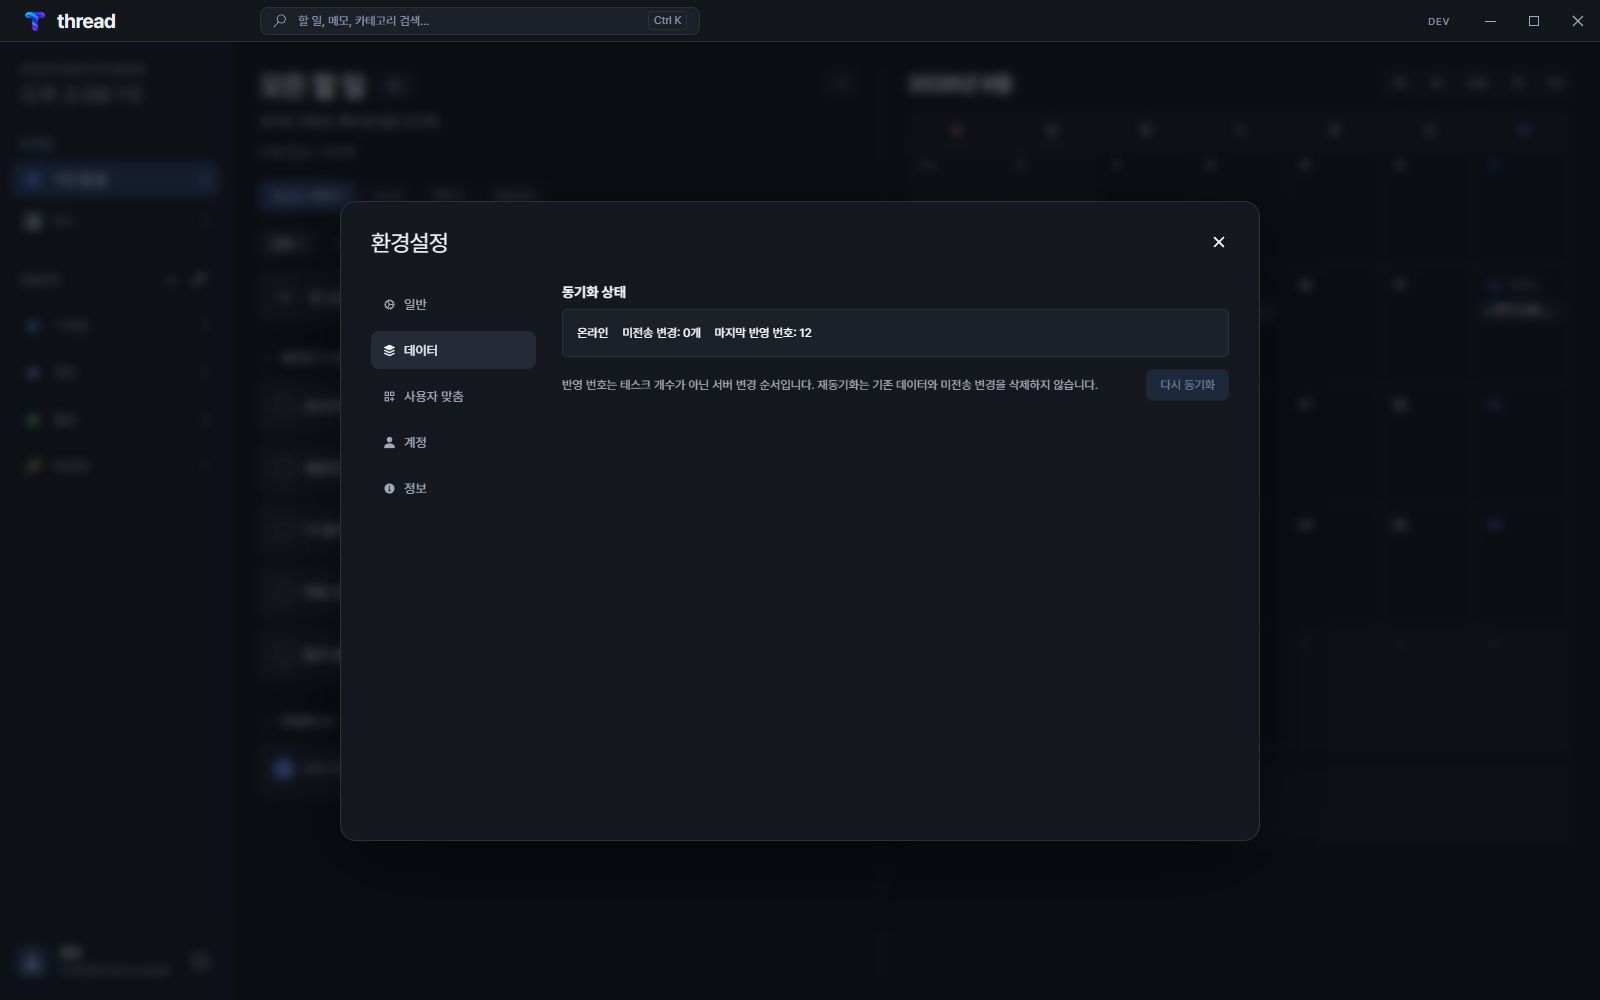
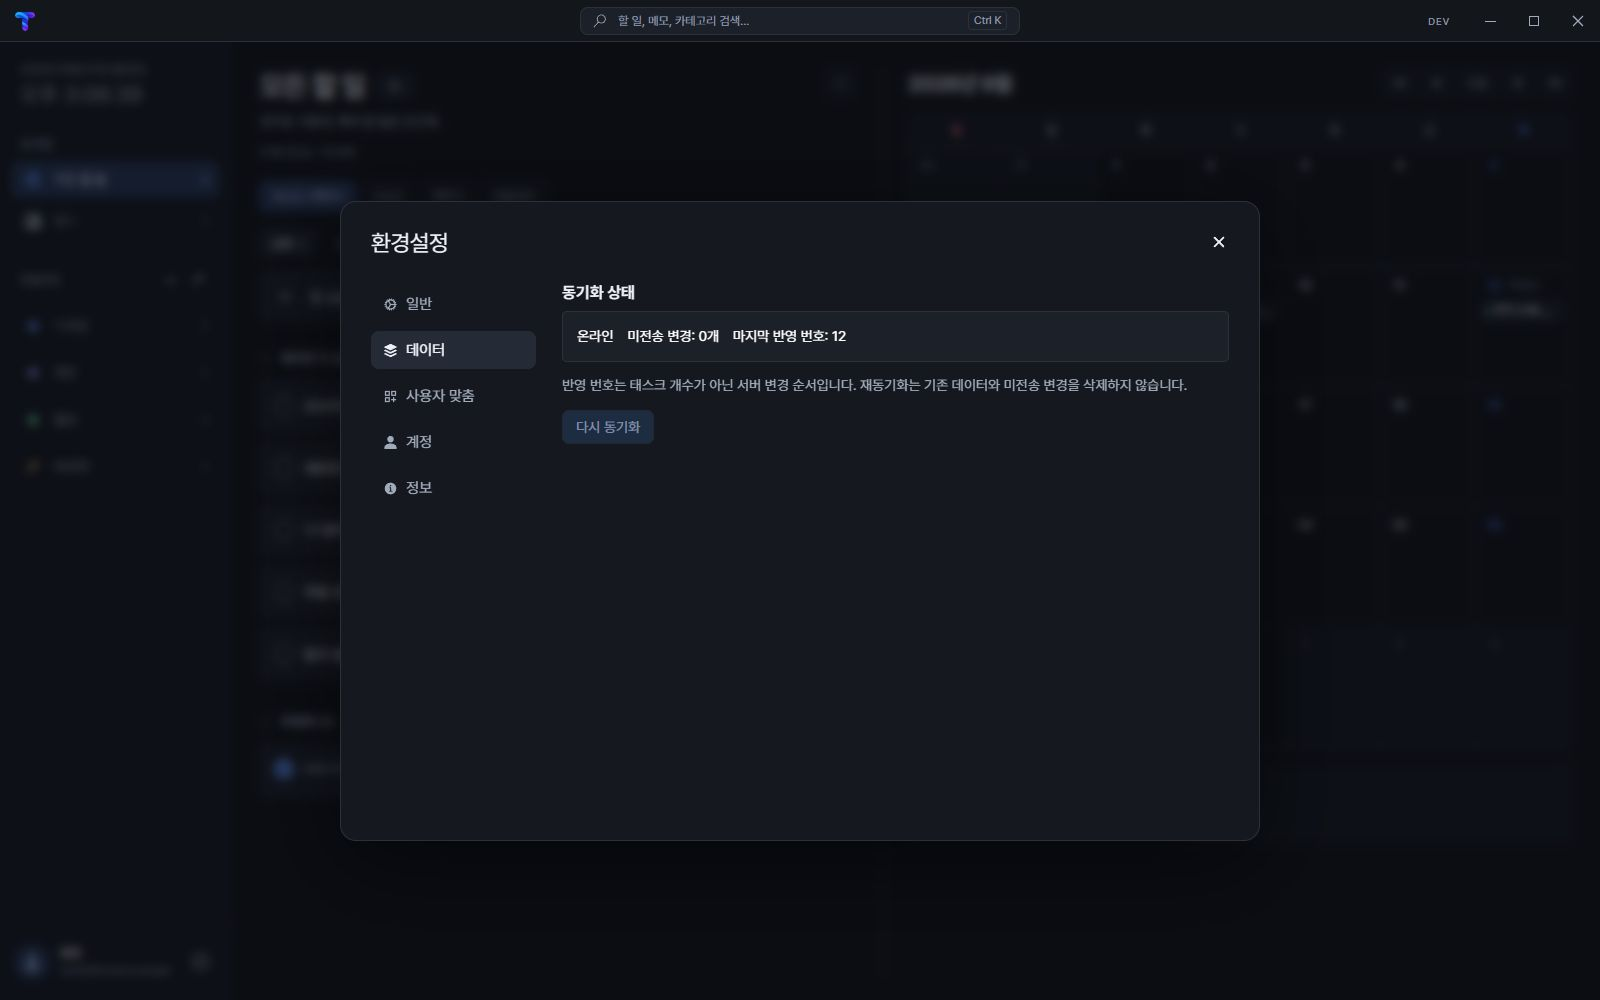
style(desktop): center titlebar search and enlarge settings text

diff --git a/apps/desktop/src/styles/surfaces.scss b/apps/desktop/src/styles/surfaces.scss
@@ -17,7 +17,7 @@
   color: var(--secondary);
 }
 .setting-info .info-item {
-  font-size: 13px;
+  font-size: 15px;
   color: var(--secondary);
   padding: 10px 0;
   border-bottom: 1px solid var(--border);
@@ -70,7 +70,7 @@
     margin-right: 26px;
   }
   .content .menu .menu-item {
-    font-size: 13px;
+    font-size: 15px;
     color: var(--secondary);
     min-height: 38px;
     padding: 9px 12px;
@@ -84,6 +84,7 @@
     background: var(--hover);
   }
   .content .menu-content {
+    font-size: 16px;
     min-width: 0;
     overflow-y: auto;
   }
@@ -91,6 +92,7 @@
     color: var(--secondary);
   }
   .content .menu-content > .settings .setting-item > .head > .label {
+    font-size: 16px;
     font-weight: 600;
     color: var(--text);
   }
@@ -101,6 +103,7 @@
     > .body
     .controller
     .description {
+    font-size: 14px;
     color: var(--secondary);
     line-height: 1.7;
   }
@@ -122,9 +125,10 @@
     padding: 9px 13px;
     background: var(--selected);
     color: #c5d7ff;
-    font-size: 12px;
+    font-size: 14px;
   }
   .sync-status .sync-summary {
+    font-size: 14px;
     background: var(--surface);
     border: 1px solid var(--border);
     padding: 14px;
@@ -133,7 +137,7 @@
   }
   @media (max-width: 850px) {
     .content .menu {
-      width: 125px;
+      width: 140px;
       margin-right: 16px;
     }
   }

diff --git a/apps/desktop/src/components/TopBar.scss b/apps/desktop/src/components/TopBar.scss
@@ -11,12 +11,12 @@
   z-index: 100;
   -webkit-app-region: drag;
   .brand {
-    width: $left-sidebar-width;
+    width: auto;
     flex-shrink: 0;
     display: flex;
     align-items: center;
     gap: 9px;
-    padding: 0 22px;
+    padding: 0 12px;
     box-sizing: border-box;
     font-size: 20px;
     font-weight: 650;
@@ -29,13 +29,15 @@
     object-fit: contain;
   }
   .workspace-search {
+    position: absolute;
+    left: 50%;
+    transform: translateX(-50%);
     display: flex;
     align-items: center;
     gap: 10px;
     width: min(440px, 40vw);
     min-width: 140px;
     height: 28px;
-    margin-left: 28px;
     padding: 0 12px;
     border: 1px solid var(--border);
     border-radius: 8px;
@@ -100,9 +102,6 @@
     color: white;
   }
   @media (max-width: 900px) {
-    .workspace-search {
-      margin-left: 16px;
-    }
     kbd,
     .build-label {
       display: none;

diff --git a/apps/desktop/src/components/TopBar.js b/apps/desktop/src/components/TopBar.js
@@ -40,8 +40,7 @@ const TopBar = ({ searchQuery = "", setSearchQuery }) => {
   return (
     <header className="component top-bar">
       <div className="brand" title={`Thread ${PackageJson.version}`}>
-        <img src={process.env.PUBLIC_URL + "/logo192.png"} alt="" />
-        <span>thread</span>
+        <img src={process.env.PUBLIC_URL + "/logo192.png"} alt="Thread" />
       </div>
       <div className="drag-section" />
       <div className="workspace-search">

diff --git a/apps/desktop/src/components/LeftSidebar.scss b/apps/desktop/src/components/LeftSidebar.scss
@@ -76,6 +76,11 @@
     background: var(--hover);
     color: var(--text);
   }
+  .visible.key svg,
+  .todo-menu:not(.default) .icon-wrapper svg {
+    width: 0.8em;
+    height: 0.8em;
+  }
   .todo-menus {
     display: flex;
     flex-direction: column;

diff --git a/docs/tasks.md b/docs/tasks.md
@@ -2,7 +2,7 @@
 
 | Index | Tag | Updated | Status | Completed | Deps | 항목 | 완료 조건 |
 | --- | --- | --- | --- | --- | --- | --- | --- |
-| 37 | desktop/design | 2026-09-07 14:59 | 🟡 WIP |  |  | Desktop UI/UX 전면 개선 | 참고 이미지 기반 charcoal/blue 토큰·상단 검색·사이드바·목록/캘린더 분할·빠른 추가·완료 필터·날짜 상세·설정/팝업을 구현했다. 기존 IPC mutation 계약과 보안 카테고리 필터를 유지했다. 추가 피드백: 상단 42px·시계 22px·메뉴 36px·시계 아래 여백 +10px, 목록/캘린더 12px 단일 단위 남은 시간(상세 유지), 좁은 캘린더 시간 숨김, 삭제 버튼 돌출에 의한 목록 가로 넘침을 수정했다. renderer 40개 테스트·production build(기존 lint 경고) 및 synthetic 실제 브라우저의 기능/치수/900·1280·1600px 내부 넘침 검증 통과. 스크린샷을 디자인 명세에 보존했다. 사용자 시각 검수 대기. |
+| 37 | desktop/design | 2026-09-07 15:07 | 🟡 WIP |  |  | Desktop UI/UX 전면 개선 | 참고 이미지 기반 charcoal/blue 토큰·상단 검색·사이드바·목록/캘린더 분할·빠른 추가·완료 필터·날짜 상세·설정/팝업을 구현했다. 기존 IPC mutation 계약과 보안 카테고리 필터를 유지했다. 추가 피드백: 상단 42px·시계 22px·메뉴 36px·시계 아래 여백 +10px, 목록/캘린더 12px 단일 단위 남은 시간(상세 유지), 좁은 캘린더 시간 숨김, 삭제 버튼 돌출에 의한 목록 가로 넘침을 수정했다. renderer 40개 테스트·production build(기존 lint 경고) 및 synthetic 실제 브라우저의 기능/치수/900·1280·1600px 내부 넘침 검증 통과. 스크린샷을 디자인 명세에 보존했다. 상단 글자 제거·로고 좌측 12px·검색창 창 중앙 정렬·키 아이콘 80%·설정 글자/아이콘 +2px 추가 반영 및 브라우저/production build 검증 완료. 사용자 시각 검수 대기. |
 | 36 | security | 2026-09-07 13:05 | 🟢 DONE | 2026-09-07 13:05 |  | Desktop production env 이력 제거 | ignore 예외를 제거하고 별도 복제본 전체 이력에서 해당 경로를 제거했다. master/refactor 양 원격 브랜치를 explicit lease·atomic 강제 푸시하고 로컬 브랜치를 정렬했다. 파일 존재·ignore 적용·추적 해제를 확인했다. 로컬 실제 env·기존 stash/다른 브랜치는 보존했으며 GitHub 캐시/타인의 clone까지 삭제한 것은 아니다. |
 | 35 | desktop | 2026-09-07 02:21 | 🟢 DONE | 2026-09-07 02:21 | #34 | v2 설정 동기화 상태 및 1.1.0 빌드 | 설정을 연결 상태·미전송 변경·마지막 반영 번호로 교체하고 현재 상태 조회/실시간 갱신/데이터 보존 재시도 IPC를 연결했다. 계정 필터·초기 응답 경쟁·개별 구독 해제를 검증했다. renderer 29개 및 SQLite/mock service 테스트 1개 통과, production build와 Windows ia32 NSIS 1.1.0 패키징 완료. asar 버전·진입점·최종 renderer·sync/IPC 코드 일치를 확인했다. 기존 lint 경고는 남아 있으며 실제 설치·운영 서버 호출·업로드는 하지 않았다. |
 | 34 | desktop | 2026-09-07 02:10 | 🟢 DONE | 2026-09-07 02:10 |  | 상단 평상시 sync 상태 제거 및 설정 0/0 진단 | 평상시 debug 상태 줄을 제거하고 복구/오류 경고를 보존했다. UI 테스트 6개와 Root/경고 컴포넌트 transpilation, diff 검사를 통과했다. 설정 0/0은 legacy block IPC만 구독하고 v2 status를 구독하지 않는 표시 문제로 확인했다. 설정 변경은 이번 진단 범위에 포함하지 않았다. 실제 Electron 실행/패키징은 수행하지 않았다. |

diff --git a/docs/designs/desktop-visual-refresh.md b/docs/designs/desktop-visual-refresh.md
@@ -23,7 +23,7 @@
 
 ## Layout and behavior
 
-- 42px 상단: 26px Thread 로고, 28px 검색창(Ctrl/Cmd+K), 기존 창 제어.
+- 42px 상단: 좌측 12px 여백의 26px Thread 로고(글자 없음), 창 전체 중앙의 28px 검색창(Ctrl/Cmd+K), 기존 창 제어.
 - 232px 사이드바: 오늘/전체, 기존 카테고리 및 보안 카테고리 관리, 계정과 설정.
 - 현재 시간은 22px, 시계 아래 여백은 기존보다 10px 추가한다. 오늘/전체 버튼은 36px 높이다.
 - 목록 요약과 캘린더 항목은 12px 남은 시간을 가장 큰 단위 하나로 내림 표시한다(1시간 35분 → 1시간 남음). 지난 기한은 같은 규칙으로 지남을 표시하고 펼친 상세 타이머는 기존 다중 단위를 유지한다.
@@ -51,6 +51,12 @@
 - 설치 파일 패키징과 사용자 시각 검수는 이번 검증에 포함하지 않는다. 현재 dev 실행에서 화면을 확인할 수 있다.
 
 ## Preview
+
+추가 조정 검증: 2026-09-07 15:07 (KST)
+
+- 카테고리 헤더와 보안 카테고리의 키 그림은 80%로 축소하고 클릭 영역은 유지했다.
+- 설정 메뉴 글자/아이콘 15px, 본문 제목 16px, 설명/버튼/동기화 요약 14px, 정보 항목 15px로 확대했다.
+- Synthetic 브라우저에서 900/1280/1600px 검색창 중앙 정렬, 로고 좌측 12px, 키 크기, 설정 메뉴/본문 치수 및 기존 기능 검사를 통과했다. Production renderer build도 통과했다(기존 lint 경고).
 
 추가 피드백 검증: 2026-09-07 14:59 (KST)
 
